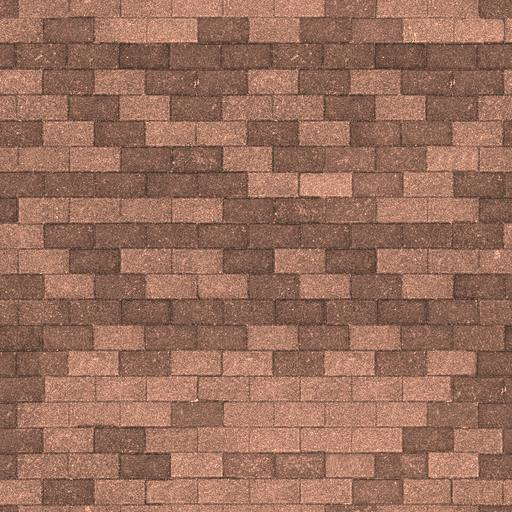
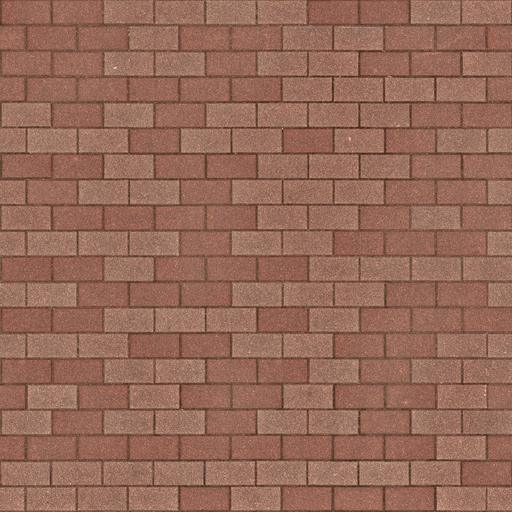
Marciapiede: mattonelle a caso, foto Brick Pavement 04
tex/marciapiede.jpg: Poly Haven "Brick Pavement 04" (CC0, Charlotte Baglioni), 2 m di lato (blocchi 20x10 cm, 20 file da 10 blocchi), ridotta a 512 px e solo portata alla media 150,106,90 (rosso mattone sbiadito); 47 KB. Sostituisce Pavement 03.
foto3.js (MAT.side): la griglia della foto e regolare (file da 25,6 px, blocchi da 51,2 px, fase per fila in BLK_PH, prima fuga a 25 px), quindi senza texture di id: ogni blocco prende la faccia di un altro blocco scelto da un hash (fila, colonna, tile del suo centro), a volte ruotata di 180 gradi, con lo stesso scarto dal centro, cosi le fughe restano dritte e allineate; ok anche per i blocchi a cavallo del bordo. Tono per blocco e zone lente come prima. In lontananza si passa alla foto semplice (niente sfarfallio). Tolto tex/marciapiede_blocchi.png.

diff --git a/index.html b/index.html
@@ -157,7 +157,7 @@ body:not(.debug) .dbg { display: none !important; }
 <script>
 (async () => { // the commit GitHub Pages is serving now (the newest deployment that went through), not just the newest commit on main
   if (/^(localhost|127\.0\.0\.1)$/.test(location.hostname)) { /* played locally: the branch and commit this page was assembled from, not what main serves */
-    const txt = 'locale · ramo dev · dopo 43e6cbc · assemblato 03/11 01:03 · porta ' + location.port;
+    const txt = 'locale · ramo dev · dopo 35a43d5 · assemblato 03/11 01:26 · porta ' + location.port;
     for (const id of ['ver', 'pver']) { const v = document.getElementById(id); v.textContent = txt; v.hidden = false; } return;
   }
   const API = 'https://api.github.com/repos/TheConfax/Grandi-Truffe-Assassine-Brianza', get = u => fetch(u).then(r => r.ok ? r.json() : Promise.reject(r.status));
@@ -9749,27 +9749,41 @@ const FOTO_TEX = [[asphaltTex, 'asfalto', 9 / 3], [grassTex, 'prato', 9 / 2], [g
   const ld = new THREE.TextureLoader();
   for (const [t, f, r] of FOTO_TEX) ld.load('tex/' + f + '.jpg', img => { t.image = img.image; t.repeat.set(r, r); t.needsUpdate = true; });
 }
-// no repeating patterns (materials and shaders only, no extra mesh): the pavement gets a tone per block (the grid of the photo is read from
-// tex/marciapiede_blocchi.png, one flat value per block, R = random, G = 255 for the blocks the tile cuts at its edge) mixed with a hash of
-// the tile (so the 2 m of the photo never repeat as a whole), and a slow variation of 15-45 m in world coordinates (paler, dirtier, damp
-// zones). The asphalt is as in dev (its texture is chosen with Carlo). Paint, kerbs and the rest are not touched
+// no repeating patterns (shaders only, no extra mesh). The photo of the pavement is a regular grid: 20 rows of 25.6 px (the first joint at 25 px), blocks 51.2 px wide in a
+// running bond, the row's phase in BLK_PH (fitted on the joints of tex/marciapiede.jpg, 512 px = 2 m). Every block takes the face of another
+// block of the photo, picked by a hash of the block in the world (its row, its column and the tile its centre lies in), sometimes turned 180
+// degrees: the sample goes to the donor block at the same offset from its centre, so the joints stay straight and aligned. On top of it a tone
+// per block (lighter or darker, towards pale pink or nearly brown), and a slow variation of 15-45 m in world coordinates (paler, dirtier, damp
+// zones). Far away, where a block is a few pixels, the plain photo takes over (no flicker). The asphalt is as in dev (its texture is chosen with
+// Carlo). Paint, kerbs and the rest are not touched
+const BLK_PH = [25.4, 0.2, 25.2, 0.4, 26.0, 0.6, 26.0, 0.2, 25.8, 0.6, 26.0, 0.6, 26.0, 0.6, 26.0, 0.4, 25.4, 50.6, 25.2, 0.0];
 const VAR_GLSL = `
 varying vec3 vWp;
 float h21(vec2 p) { vec3 q = fract(vec3(p.xyx) * .1031); q += dot(q, q.yzx + 33.33); return fract((q.x + q.y) * q.z); }
-vec2 h22(vec2 p) { vec3 q = fract(vec3(p.xyx) * vec3(.1031, .1030, .0973)); q += dot(q, q.yzx + 33.33); return fract((q.xx + q.yz) * q.zy); }
 float vn(vec2 p) { vec2 i = floor(p), f = fract(p); f = f * f * (3. - 2. * f); return mix(mix(h21(i), h21(i + vec2(1, 0)), f.x), mix(h21(i + vec2(0, 1)), h21(i + vec2(1, 1)), f.x), f.y); }
 float slowN(vec2 p, float k) { return vn(p / (17. * k) + 3.7) * .55 + vn(p / (29. * k) + 11.3) * .45; }
 `;
 const VAR_VERT = s => { s.vertexShader = 'varying vec3 vWp;\n' + s.vertexShader.replace('#include <project_vertex>', '#include <project_vertex>\n  vWp = (modelMatrix * vec4(transformed, 1.0)).xyz;'); };
-const BLK_U = { value: null };
-new THREE.TextureLoader().load('tex/marciapiede_blocchi.png', t => { t.minFilter = t.magFilter = THREE.NearestFilter; t.generateMipmaps = false; t.wrapS = t.wrapT = THREE.RepeatWrapping; t.encoding = THREE.LinearEncoding; t.needsUpdate = true; BLK_U.value = t; });
 MAT.side.onBeforeCompile = s => {
-  VAR_VERT(s); s.uniforms.uBlk = BLK_U;
-  s.fragmentShader = 'uniform sampler2D uBlk;\n' + VAR_GLSL + s.fragmentShader.replace('#include <map_fragment>', `
-  vec4 texelColor = mapTexelToLinear( texture2D( map, vUv ) );
-  { vec4 bk = texture2D( uBlk, vUv );
-    float fw = max(length(dFdx(vUv)), length(dFdy(vUv))), amp = 1. - smoothstep(.012, .05, fw); /* the blocks fade into the mean when they are smaller than a pixel */
-    float hb = mix(h21(floor(vUv) + bk.r * 255.), bk.r, step(.5, bk.g)), hc = h21(vec2(bk.r * 255., floor(vUv.x + 3. * floor(vUv.y)) + 7.));
+  VAR_VERT(s); s.uniforms.uPh = { value: BLK_PH };
+  s.fragmentShader = 'uniform float uPh[20];\n' + VAR_GLSL + s.fragmentShader.replace('#include <map_fragment>', `
+  vec4 texelColor = texture2D( map, vUv );
+  { vec2 dx = dFdx(vUv), dy = dFdy(vUv);
+    float fw = max(length(dx), length(dy)), amp = 1. - smoothstep(.012, .05, fw), a2 = 1. - smoothstep(.008, .03, fw); /* the blocks fade into the plain photo when they are a few pixels */
+    vec2 P = vec2(vUv.x, 1. - vUv.y) * 512.; /* pixels of the photo */
+    float r = floor(mod(P.y - 25., 512.) / 25.6), ph = uPh[int(r)], j = floor(mod(P.x - ph, 512.) / 51.2);
+    vec2 cen = vec2(ph + 51.2 * (j + .5), 25. + 25.6 * (r + .5)), rel = mod(P - cen + 256., 512.) - 256.;
+    vec2 cell = floor(vec2(vUv.x - rel.x / 512., vUv.y + rel.y / 512.)); /* the tile the block's centre lies in: one block, one id, also across the edge of the photo */
+    vec2 sd = vec2(r * 13. + j + 1., cell.x * 3.17 + cell.y * 5.31 + 1.7);
+    float hb = h21(sd), hc = h21(sd + 17.1), hd = h21(sd + 31.7), he = h21(sd + 47.3), hf = h21(sd + 63.9);
+    float rd = min(floor(hd * 20.), 19.), jd = min(floor(he * 10.), 9.), rot = hf > .5 ? -1. : 1.;
+    vec2 cen2 = vec2(uPh[int(rd)] + 51.2 * (jd + .5), 25. + 25.6 * (rd + .5)), P2 = cen2 + rel * rot, uv2 = vec2(P2.x, 512. - P2.y) / 512.;
+#if __VERSION__ >= 300
+    vec4 face = textureGrad( map, uv2, dx * rot, dy * rot );
+#else
+    vec4 face = texelColor;
+#endif
+    texelColor = mapTexelToLinear( mix(texelColor, face, a2) );
     float lum = 1. + (hb - .5) * .60 * amp, tn = (hc - .5) * amp; /* tn > 0: pale pink, < 0: nearly brown */
     texelColor.rgb *= lum * vec3(1. + .12 * tn, 1. + .38 * tn, 1. + .6 * tn);
     float n = slowN(vWp.xz, 1.5), dirty = smoothstep(.5, .72, n), damp = smoothstep(.55, .75, slowN(vWp.xz + 40., 1.2));

diff --git a/src/foto3.js b/src/foto3.js
@@ -8,27 +8,41 @@ const FOTO_TEX = [[asphaltTex, 'asfalto', 9 / 3], [grassTex, 'prato', 9 / 2], [g
   const ld = new THREE.TextureLoader();
   for (const [t, f, r] of FOTO_TEX) ld.load('tex/' + f + '.jpg', img => { t.image = img.image; t.repeat.set(r, r); t.needsUpdate = true; });
 }
-// no repeating patterns (materials and shaders only, no extra mesh): the pavement gets a tone per block (the grid of the photo is read from
-// tex/marciapiede_blocchi.png, one flat value per block, R = random, G = 255 for the blocks the tile cuts at its edge) mixed with a hash of
-// the tile (so the 2 m of the photo never repeat as a whole), and a slow variation of 15-45 m in world coordinates (paler, dirtier, damp
-// zones). The asphalt is as in dev (its texture is chosen with Carlo). Paint, kerbs and the rest are not touched
+// no repeating patterns (shaders only, no extra mesh). The photo of the pavement is a regular grid: 20 rows of 25.6 px (the first joint at 25 px), blocks 51.2 px wide in a
+// running bond, the row's phase in BLK_PH (fitted on the joints of tex/marciapiede.jpg, 512 px = 2 m). Every block takes the face of another
+// block of the photo, picked by a hash of the block in the world (its row, its column and the tile its centre lies in), sometimes turned 180
+// degrees: the sample goes to the donor block at the same offset from its centre, so the joints stay straight and aligned. On top of it a tone
+// per block (lighter or darker, towards pale pink or nearly brown), and a slow variation of 15-45 m in world coordinates (paler, dirtier, damp
+// zones). Far away, where a block is a few pixels, the plain photo takes over (no flicker). The asphalt is as in dev (its texture is chosen with
+// Carlo). Paint, kerbs and the rest are not touched
+const BLK_PH = [25.4, 0.2, 25.2, 0.4, 26.0, 0.6, 26.0, 0.2, 25.8, 0.6, 26.0, 0.6, 26.0, 0.6, 26.0, 0.4, 25.4, 50.6, 25.2, 0.0];
 const VAR_GLSL = `
 varying vec3 vWp;
 float h21(vec2 p) { vec3 q = fract(vec3(p.xyx) * .1031); q += dot(q, q.yzx + 33.33); return fract((q.x + q.y) * q.z); }
-vec2 h22(vec2 p) { vec3 q = fract(vec3(p.xyx) * vec3(.1031, .1030, .0973)); q += dot(q, q.yzx + 33.33); return fract((q.xx + q.yz) * q.zy); }
 float vn(vec2 p) { vec2 i = floor(p), f = fract(p); f = f * f * (3. - 2. * f); return mix(mix(h21(i), h21(i + vec2(1, 0)), f.x), mix(h21(i + vec2(0, 1)), h21(i + vec2(1, 1)), f.x), f.y); }
 float slowN(vec2 p, float k) { return vn(p / (17. * k) + 3.7) * .55 + vn(p / (29. * k) + 11.3) * .45; }
 `;
 const VAR_VERT = s => { s.vertexShader = 'varying vec3 vWp;\n' + s.vertexShader.replace('#include <project_vertex>', '#include <project_vertex>\n  vWp = (modelMatrix * vec4(transformed, 1.0)).xyz;'); };
-const BLK_U = { value: null };
-new THREE.TextureLoader().load('tex/marciapiede_blocchi.png', t => { t.minFilter = t.magFilter = THREE.NearestFilter; t.generateMipmaps = false; t.wrapS = t.wrapT = THREE.RepeatWrapping; t.encoding = THREE.LinearEncoding; t.needsUpdate = true; BLK_U.value = t; });
 MAT.side.onBeforeCompile = s => {
-  VAR_VERT(s); s.uniforms.uBlk = BLK_U;
-  s.fragmentShader = 'uniform sampler2D uBlk;\n' + VAR_GLSL + s.fragmentShader.replace('#include <map_fragment>', `
-  vec4 texelColor = mapTexelToLinear( texture2D( map, vUv ) );
-  { vec4 bk = texture2D( uBlk, vUv );
-    float fw = max(length(dFdx(vUv)), length(dFdy(vUv))), amp = 1. - smoothstep(.012, .05, fw); /* the blocks fade into the mean when they are smaller than a pixel */
-    float hb = mix(h21(floor(vUv) + bk.r * 255.), bk.r, step(.5, bk.g)), hc = h21(vec2(bk.r * 255., floor(vUv.x + 3. * floor(vUv.y)) + 7.));
+  VAR_VERT(s); s.uniforms.uPh = { value: BLK_PH };
+  s.fragmentShader = 'uniform float uPh[20];\n' + VAR_GLSL + s.fragmentShader.replace('#include <map_fragment>', `
+  vec4 texelColor = texture2D( map, vUv );
+  { vec2 dx = dFdx(vUv), dy = dFdy(vUv);
+    float fw = max(length(dx), length(dy)), amp = 1. - smoothstep(.012, .05, fw), a2 = 1. - smoothstep(.008, .03, fw); /* the blocks fade into the plain photo when they are a few pixels */
+    vec2 P = vec2(vUv.x, 1. - vUv.y) * 512.; /* pixels of the photo */
+    float r = floor(mod(P.y - 25., 512.) / 25.6), ph = uPh[int(r)], j = floor(mod(P.x - ph, 512.) / 51.2);
+    vec2 cen = vec2(ph + 51.2 * (j + .5), 25. + 25.6 * (r + .5)), rel = mod(P - cen + 256., 512.) - 256.;
+    vec2 cell = floor(vec2(vUv.x - rel.x / 512., vUv.y + rel.y / 512.)); /* the tile the block's centre lies in: one block, one id, also across the edge of the photo */
+    vec2 sd = vec2(r * 13. + j + 1., cell.x * 3.17 + cell.y * 5.31 + 1.7);
+    float hb = h21(sd), hc = h21(sd + 17.1), hd = h21(sd + 31.7), he = h21(sd + 47.3), hf = h21(sd + 63.9);
+    float rd = min(floor(hd * 20.), 19.), jd = min(floor(he * 10.), 9.), rot = hf > .5 ? -1. : 1.;
+    vec2 cen2 = vec2(uPh[int(rd)] + 51.2 * (jd + .5), 25. + 25.6 * (rd + .5)), P2 = cen2 + rel * rot, uv2 = vec2(P2.x, 512. - P2.y) / 512.;
+#if __VERSION__ >= 300
+    vec4 face = textureGrad( map, uv2, dx * rot, dy * rot );
+#else
+    vec4 face = texelColor;
+#endif
+    texelColor = mapTexelToLinear( mix(texelColor, face, a2) );
     float lum = 1. + (hb - .5) * .60 * amp, tn = (hc - .5) * amp; /* tn > 0: pale pink, < 0: nearly brown */
     texelColor.rgb *= lum * vec3(1. + .12 * tn, 1. + .38 * tn, 1. + .6 * tn);
     float n = slowN(vWp.xz, 1.5), dirty = smoothstep(.5, .72, n), damp = smoothstep(.55, .75, slowN(vWp.xz + 40., 1.2));
